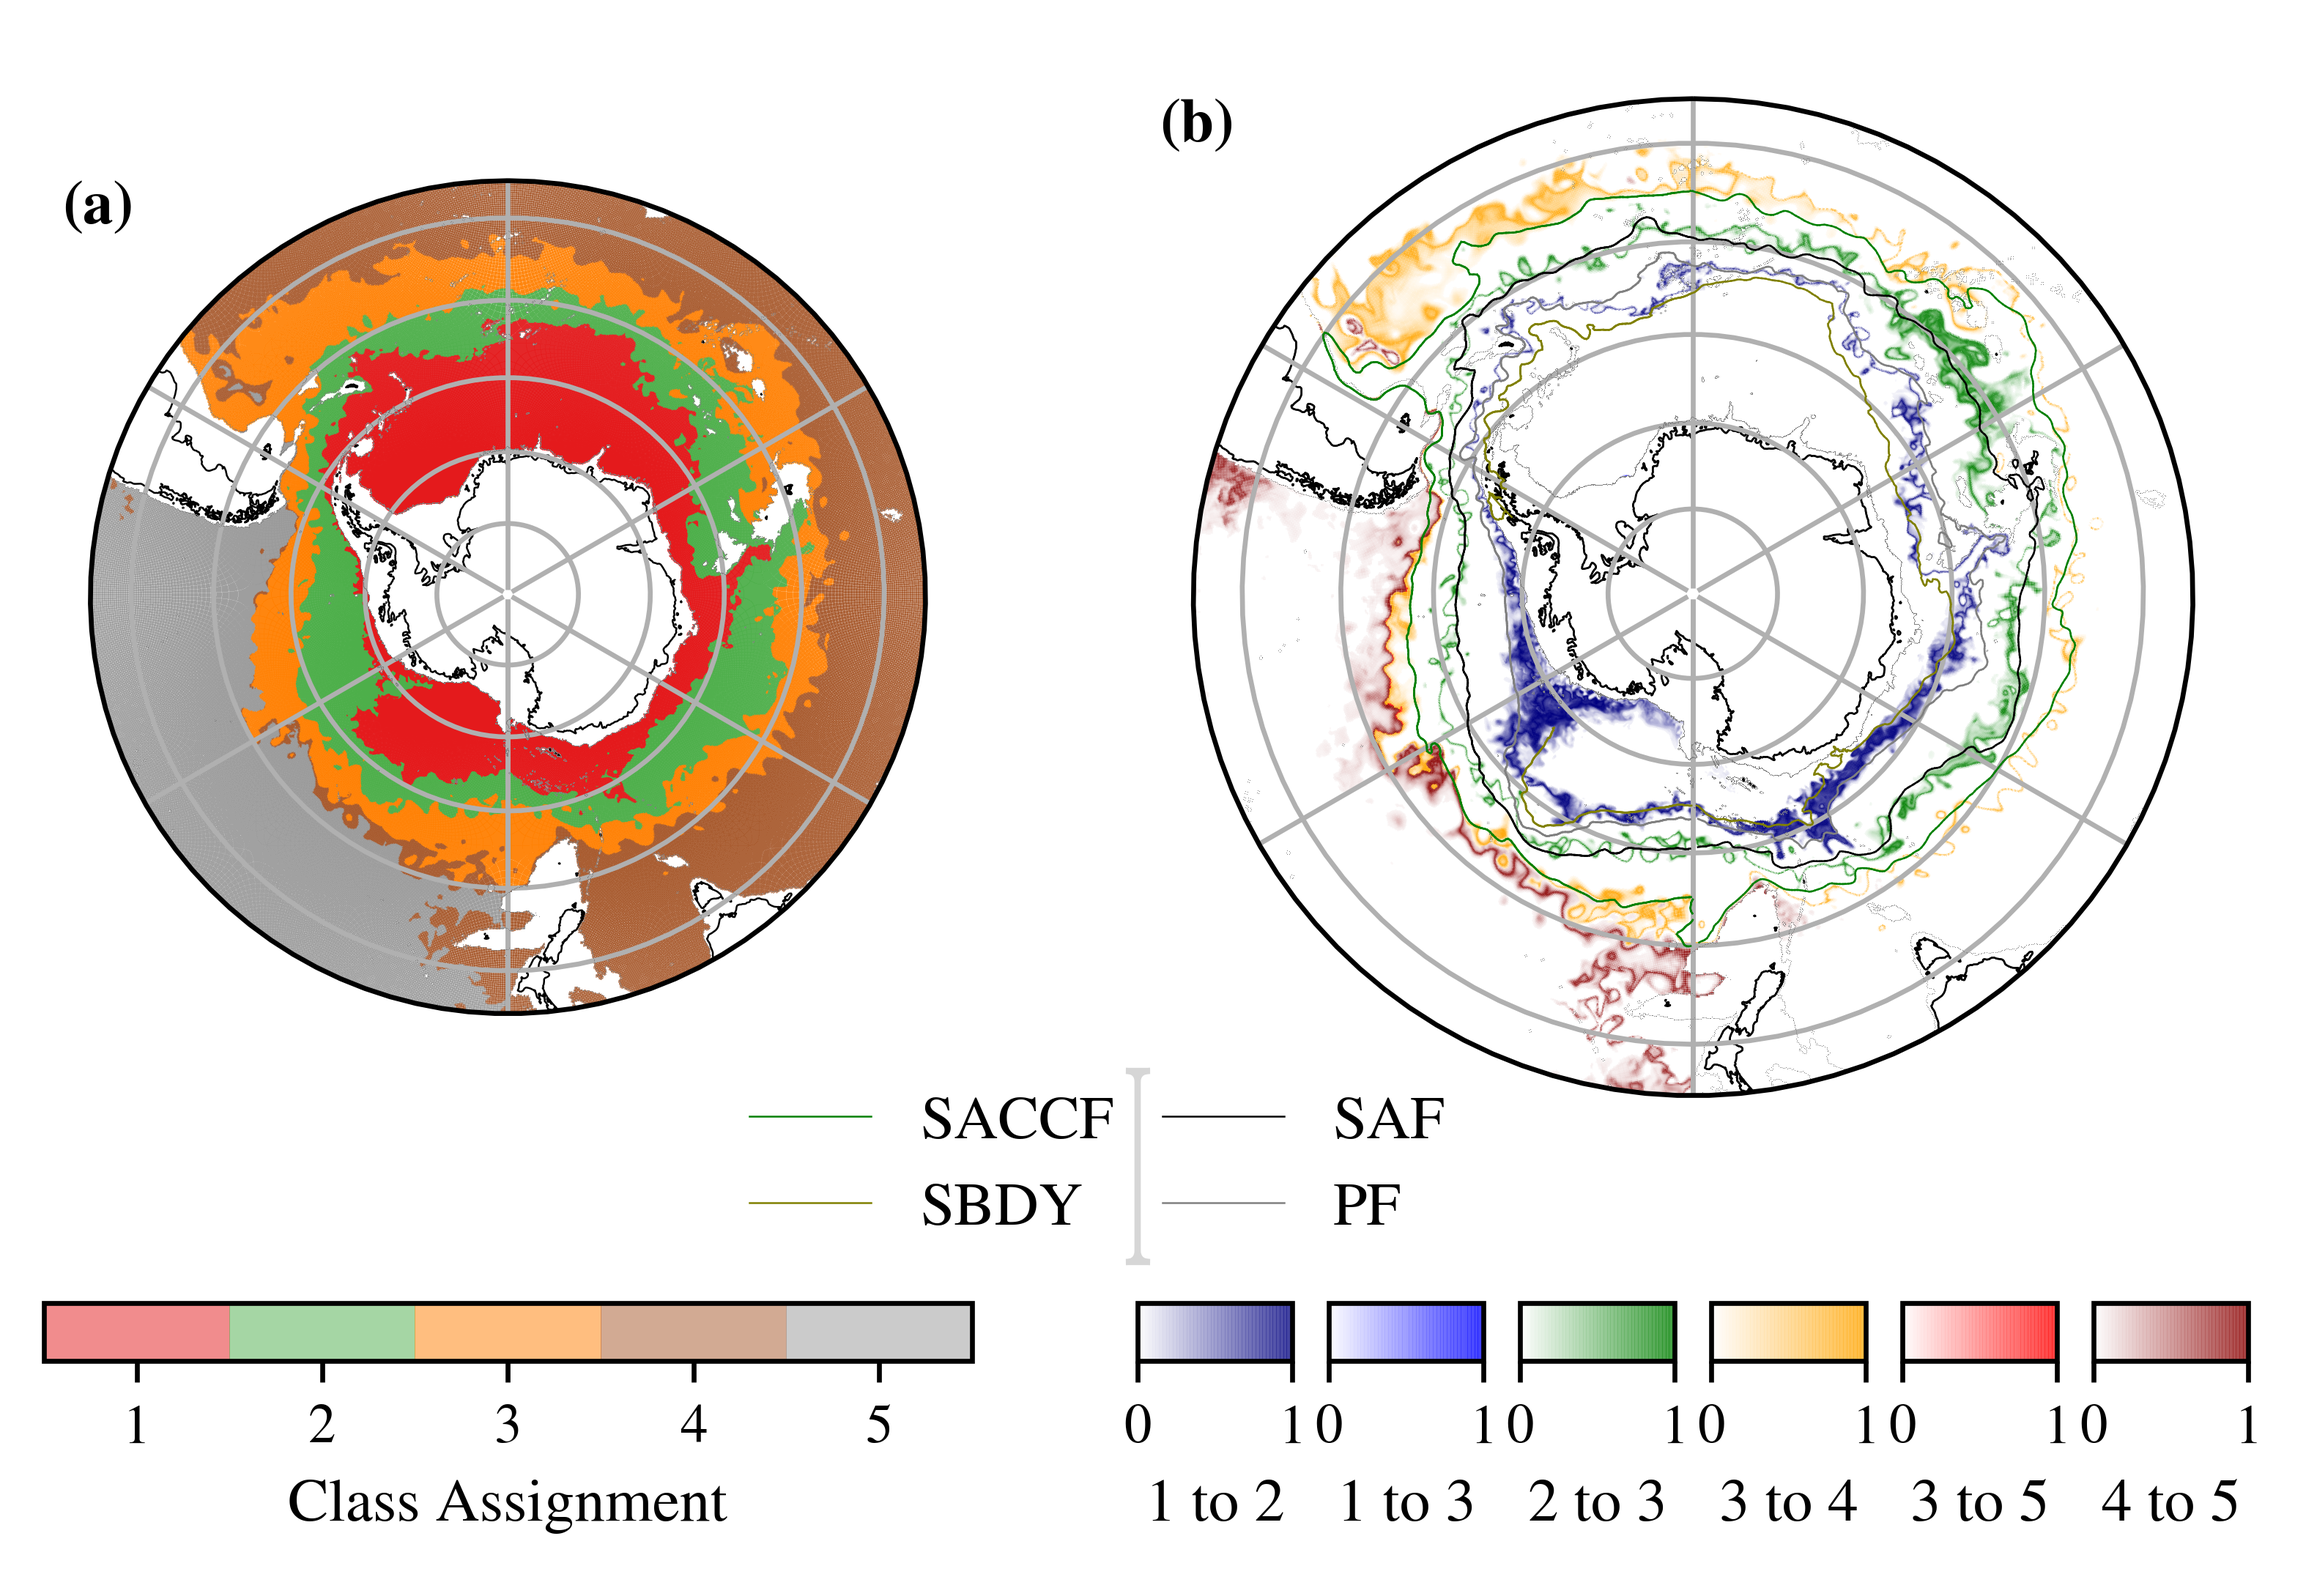
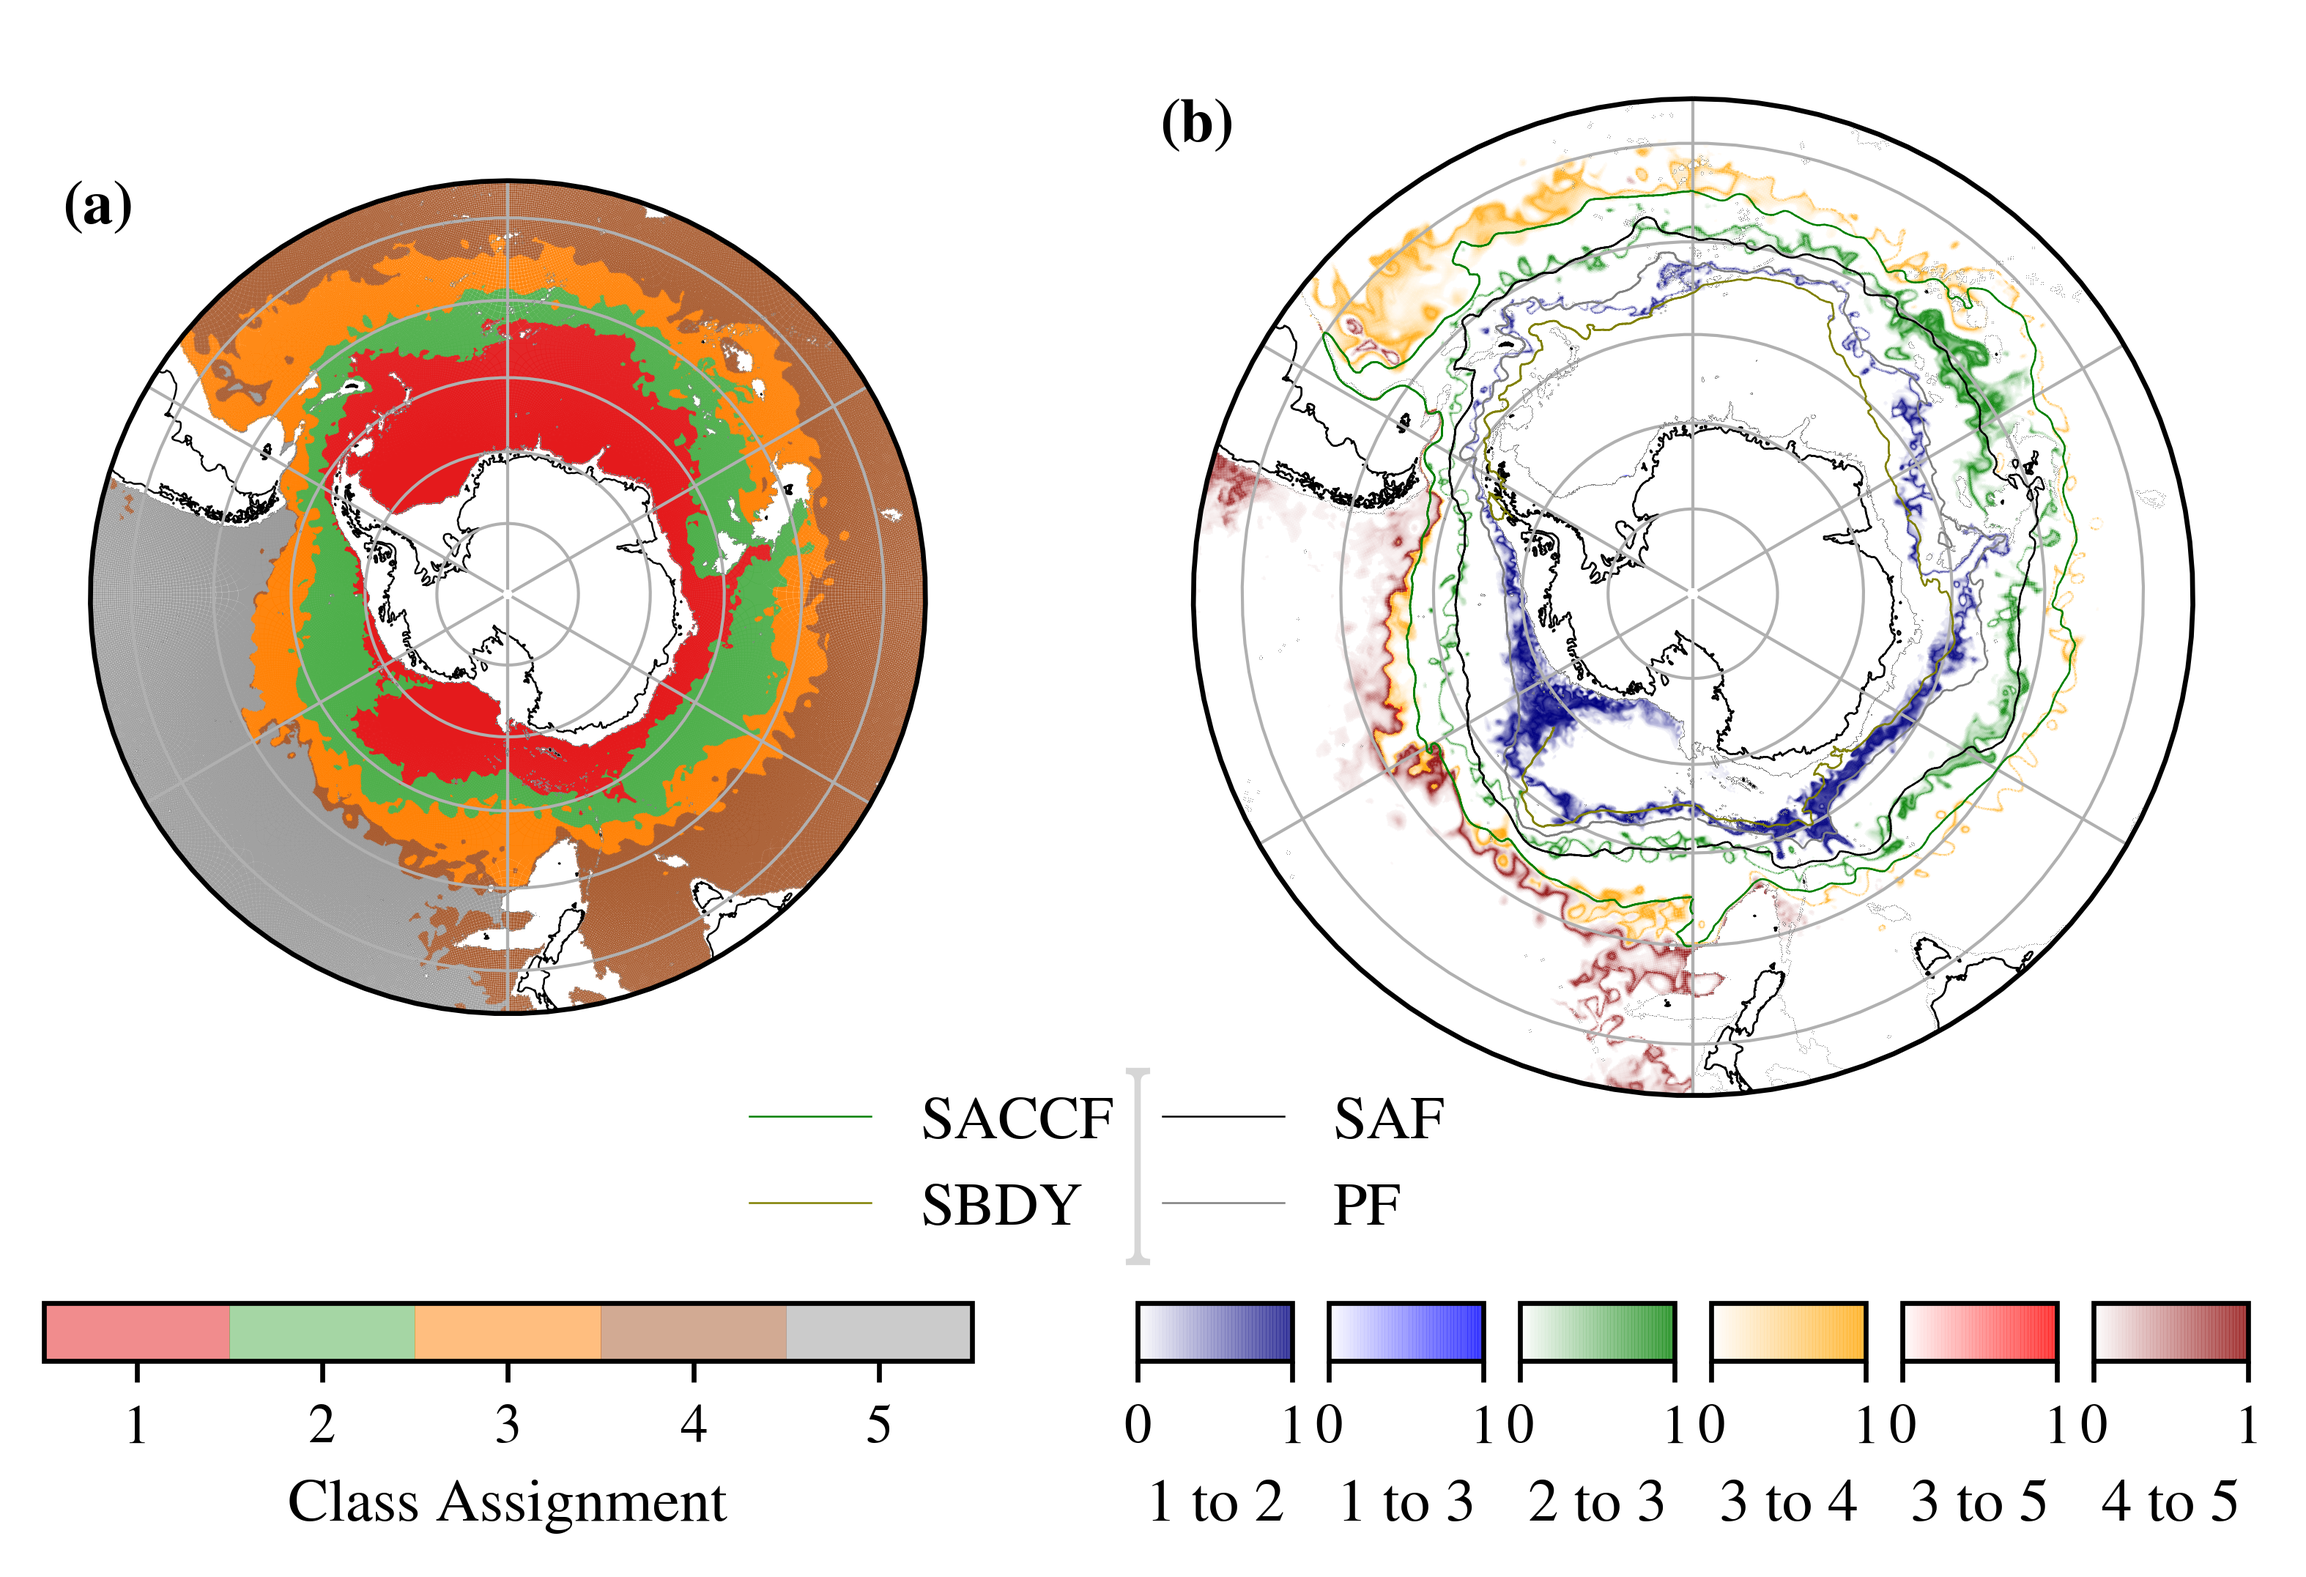
ext: making gridlines smaller

diff --git a/src/plot_utils/map.py b/src/plot_utils/map.py
@@ -51,7 +51,7 @@ def southern_ocean_axes_setup(
     ax.coastlines(resolution="50m", linewidth=0.3)
 
     if add_gridlines:
-        ax.gridlines()
+        ax.gridlines(linewidth=0.5)
 
     # Add 2000m isobath (or whatever the max depth is).
 
